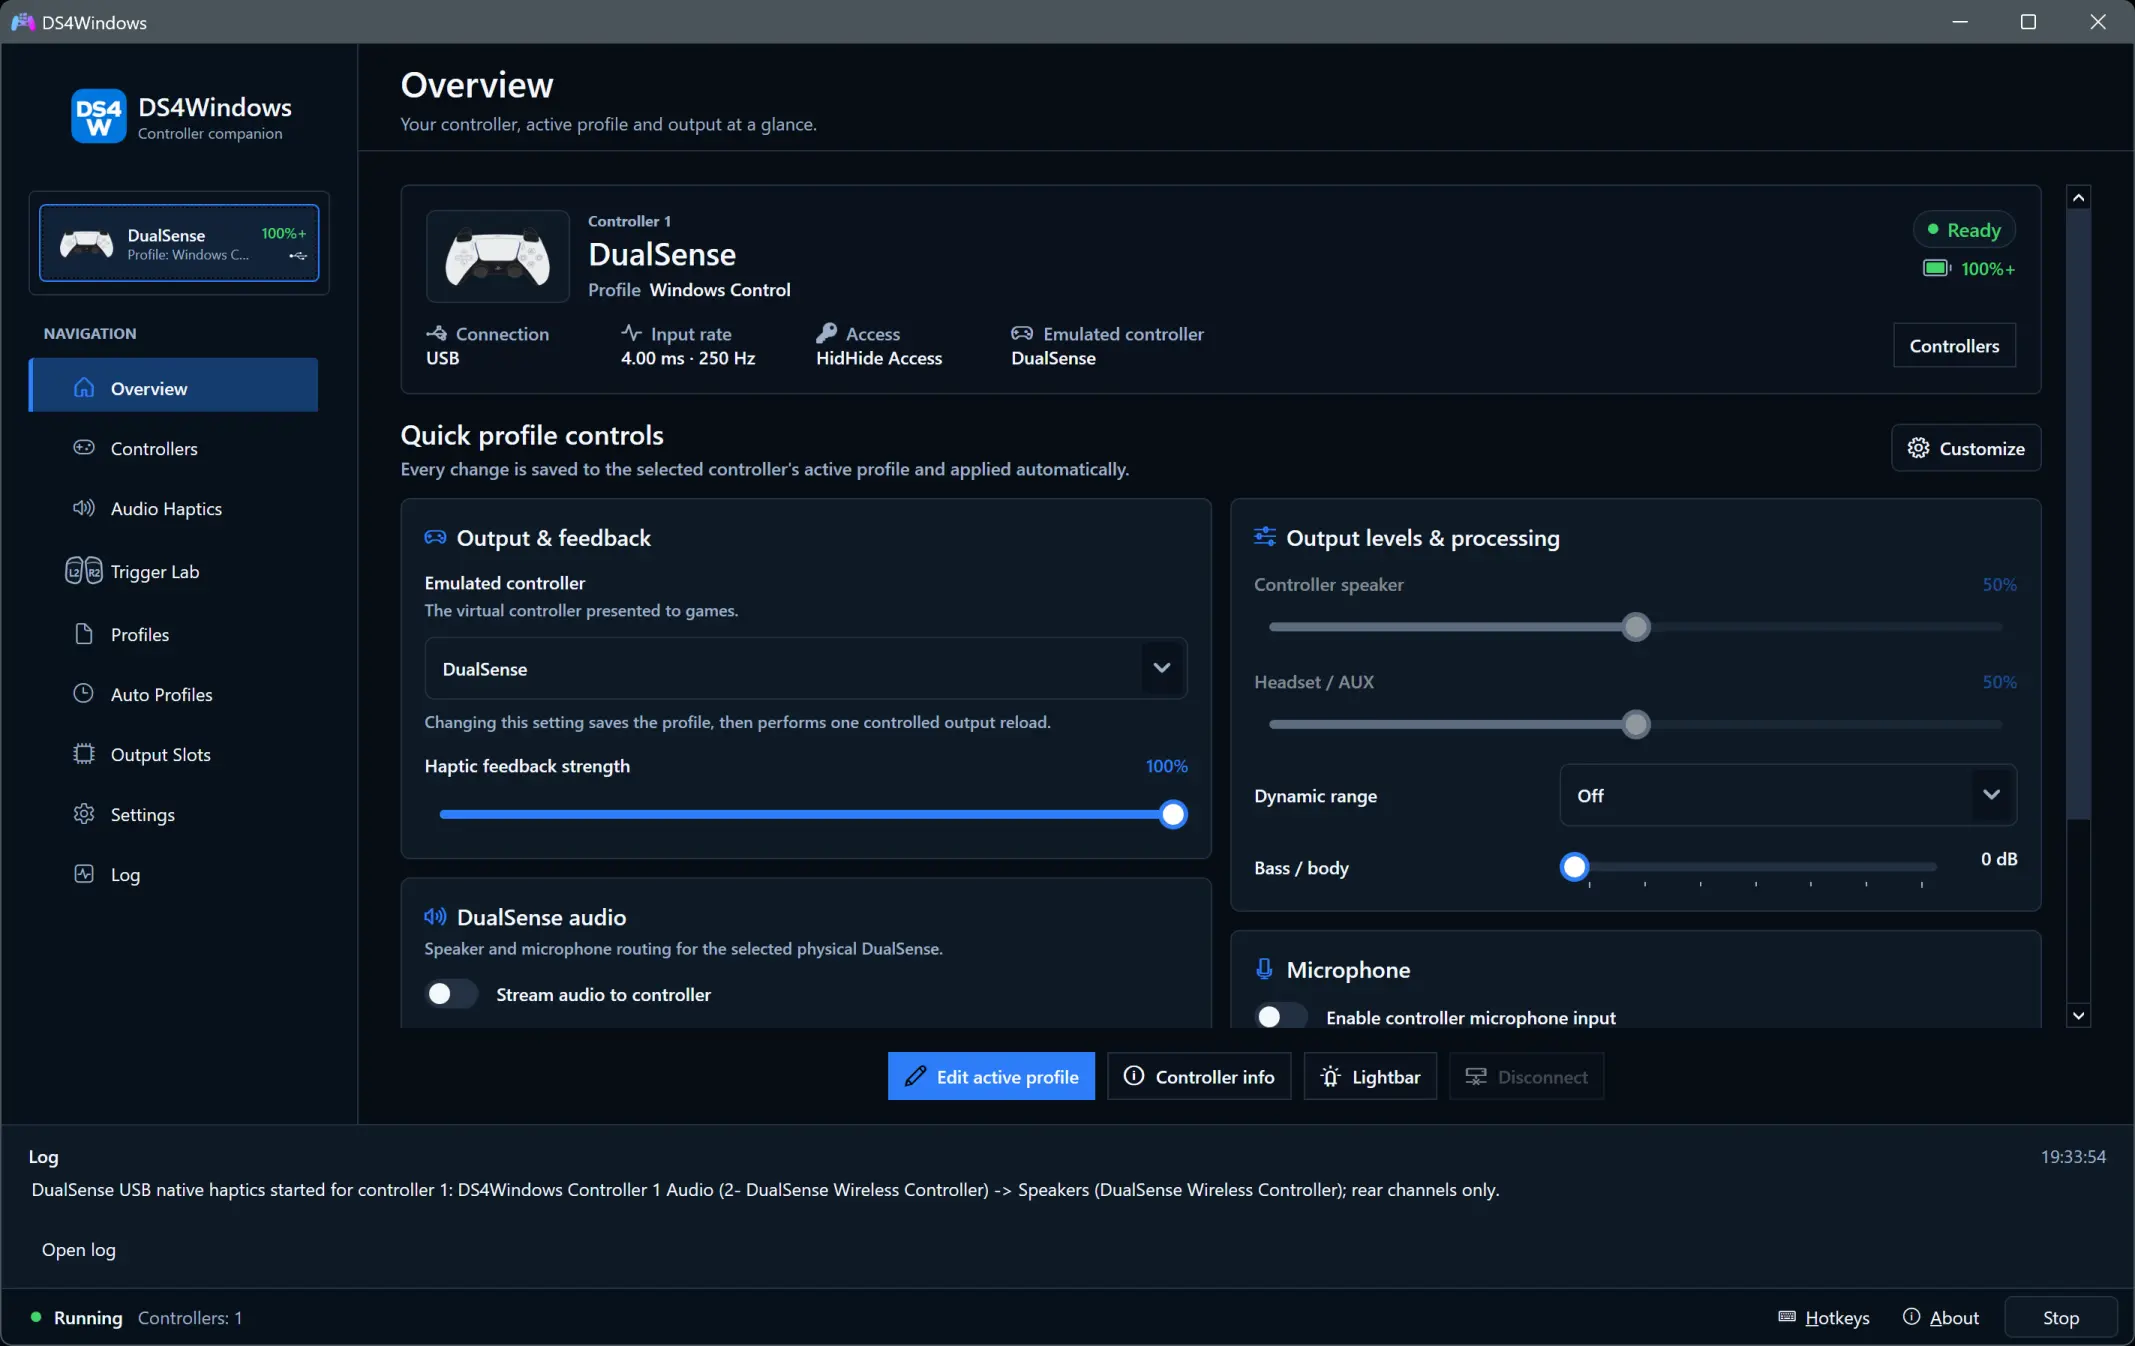
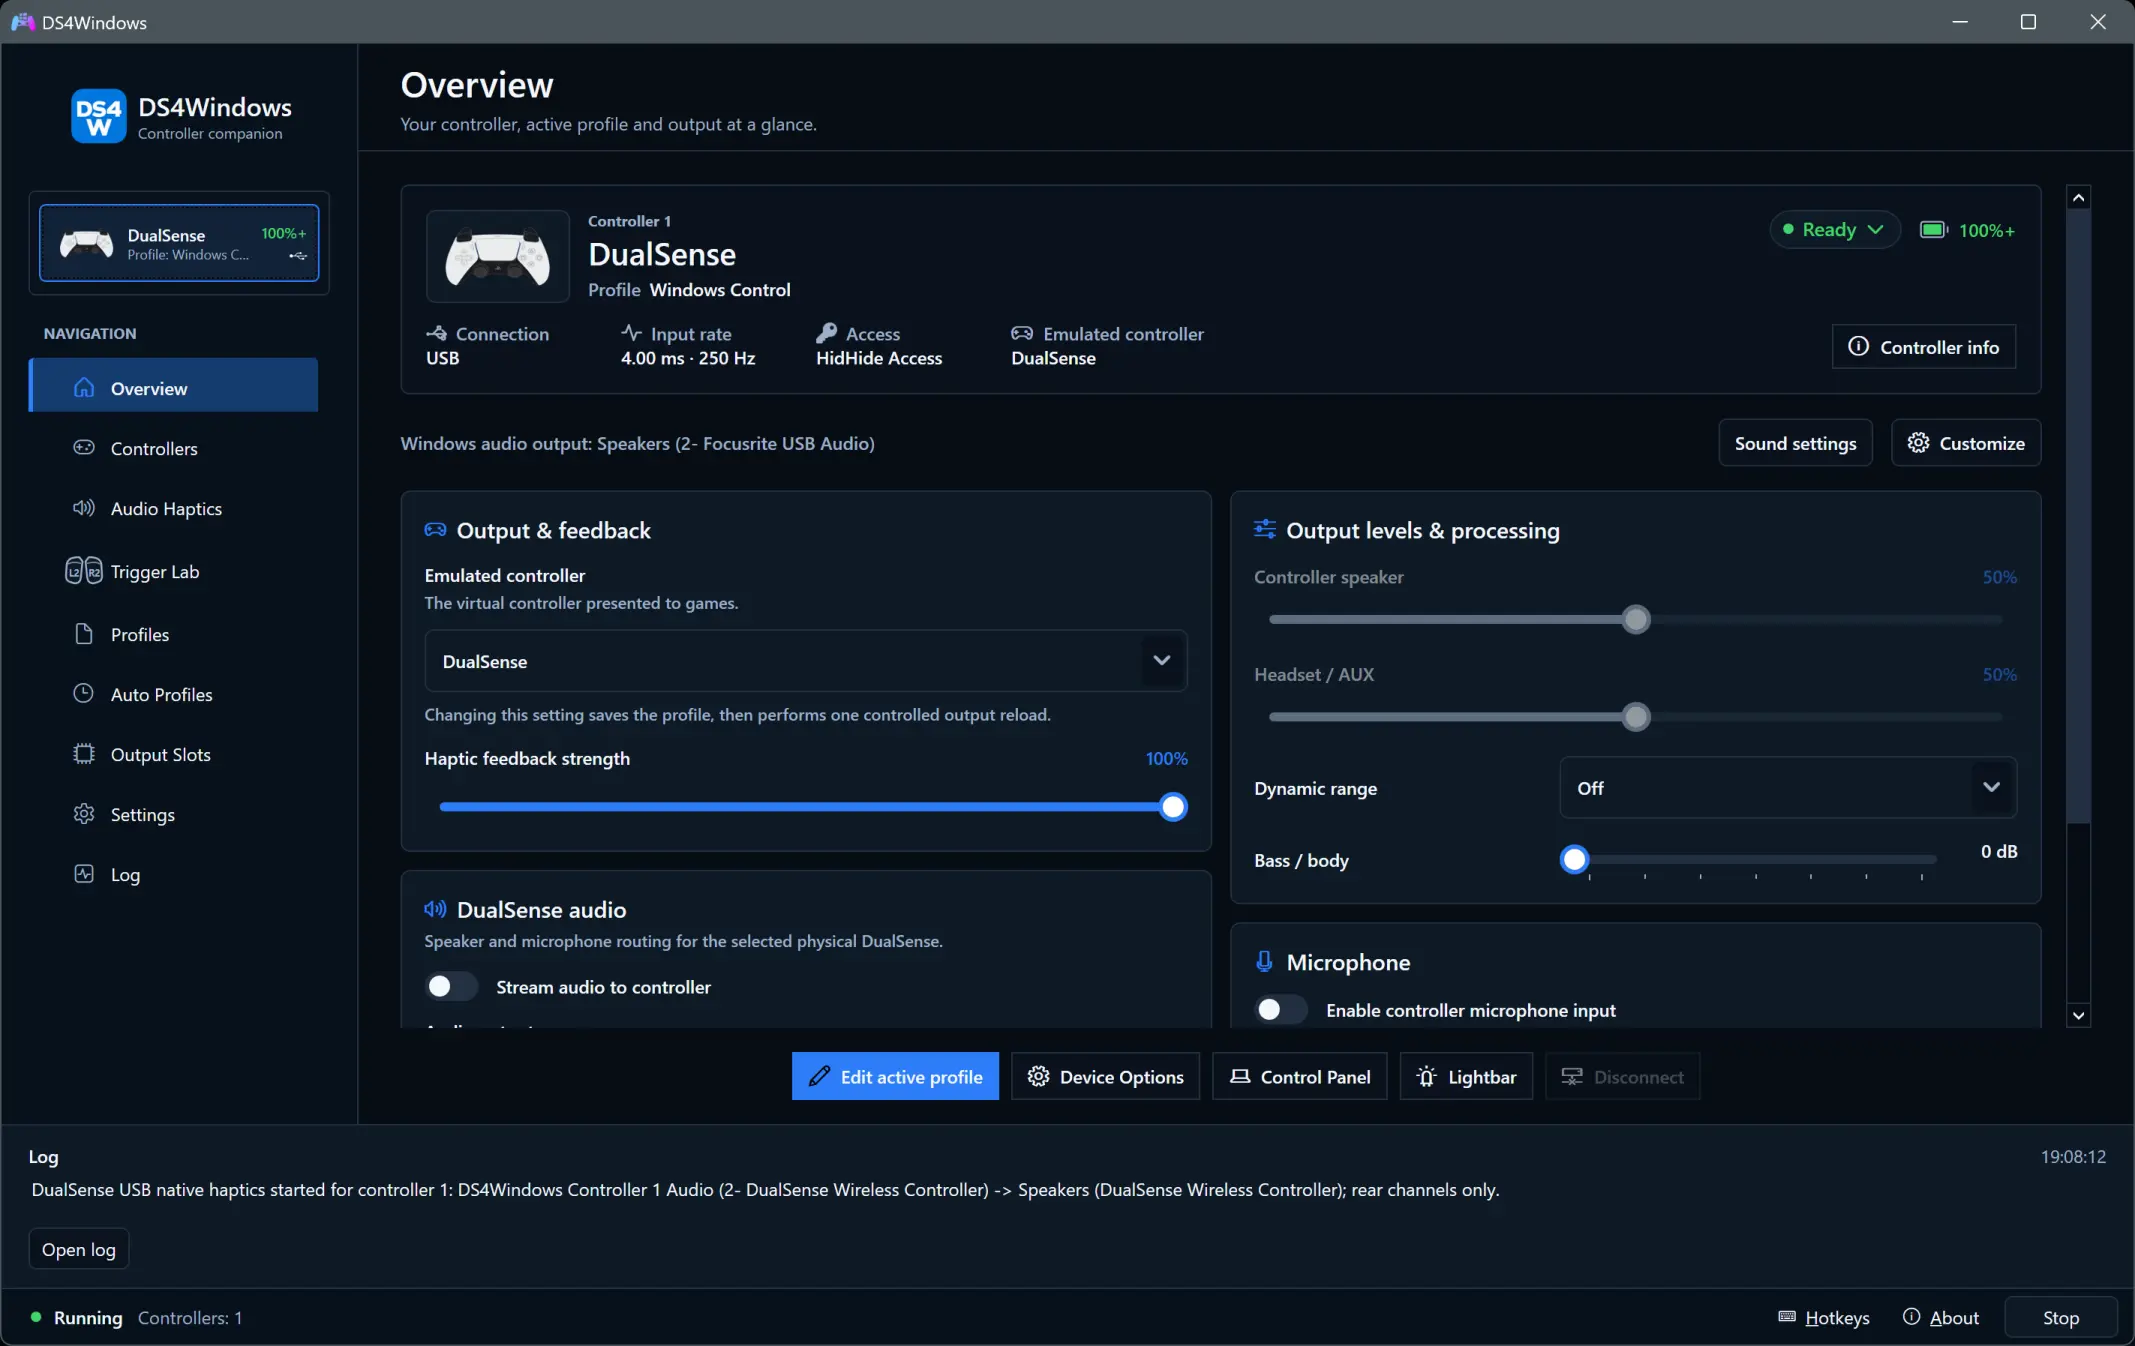
Refresh site screenshots and size the tray capture correctly

diff --git a/website/assets/site.css b/website/assets/site.css
@@ -73,3 +73,6 @@ body:has(.site-home) .md-main__inner{margin-top:0}body:has(.site-home) .md-conte
     mask-image: linear-gradient(180deg, transparent 0%, #000 70%);
   }
 }
+
+/* The tray capture is a 2x desktop screenshot; show it at logical size. */
+.md-typeset img[src$="/systray.webp"]{width:397px;max-width:100%;height:auto}
